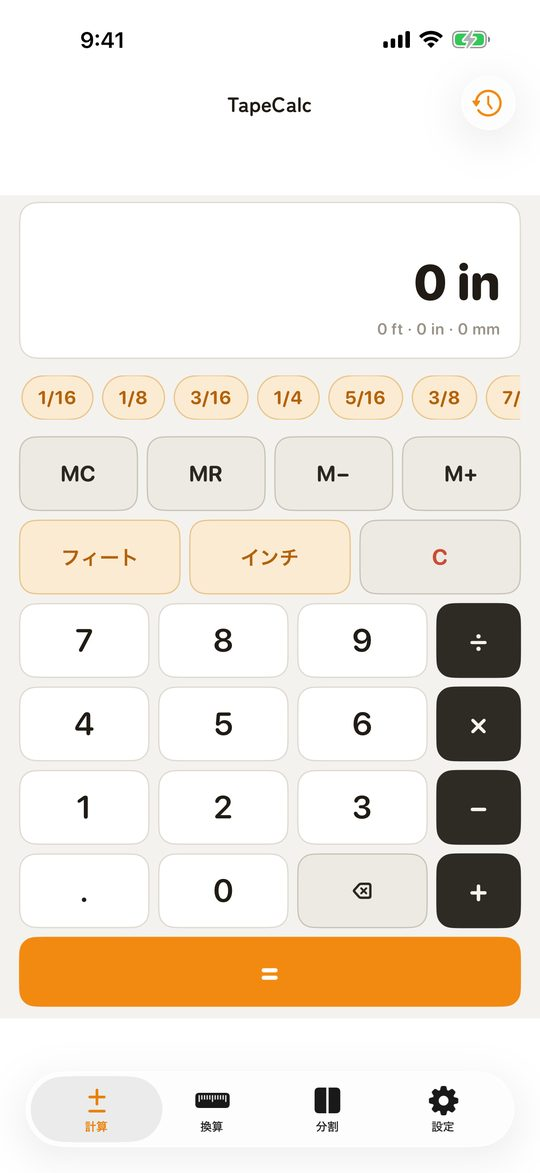
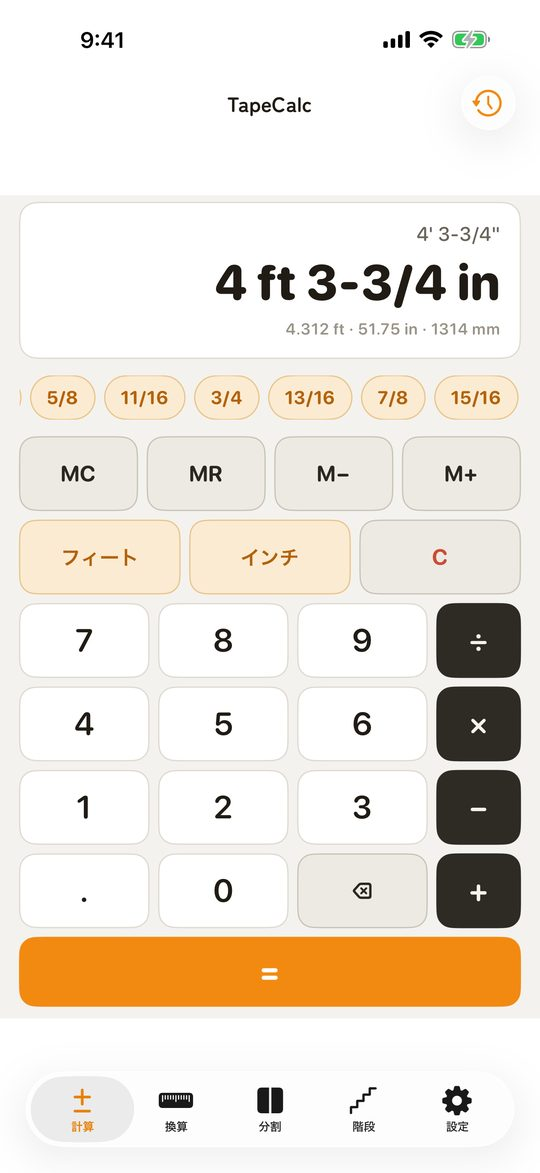
lp: TapeCalc 1.2.0 の機能追加（階段の割付）を反映

diff --git a/tapecalc/index.html b/tapecalc/index.html
@@ -4,7 +4,7 @@
 <meta charset="UTF-8">
 <meta name="viewport" content="width=device-width, initial-scale=1.0">
 <title>TapeCalc: インチ・フィート分数電卓｜iPhoneアプリ</title>
-<meta name="description" content="フィート・インチ・分数のまま四則演算。小数やミリへの換算も同時に表示し、どんな長さも等分割できます。2x4 材や輸入家具、インチのメジャーを使う DIY に。サブスクなし・オフラインで動きます。">
+<meta name="description" content="新機能：階段の割付。床から床までの高さを入れるだけで、均等な蹴上・水平距離・勾配・各段の高さが出ます。フィート・インチ・分数の計算、換算、等分割も。買い切り・オフライン。">
 <link rel="canonical" href="https://madeinchimpanzee.github.io/app-legal/tapecalc/">
 <link rel="icon" href="img/icon.png">
 <link rel="apple-touch-icon" href="img/icon.png">
@@ -12,13 +12,13 @@
 <script defer src="https://static.cloudflareinsights.com/beacon.min.js" data-cf-beacon='{"token": "19cc6d39518c47219628c5f1152f72c9"}'></script>
 <meta property="og:type" content="website">
 <meta property="og:title" content="TapeCalc: インチ・フィート分数電卓｜iPhoneアプリ">
-<meta property="og:description" content="フィート・インチ・分数のまま四則演算。小数やミリへの換算も同時に表示し、どんな長さも等分割できます。2x4 材や輸入家具、インチのメジャーを使う DIY に。サブスクなし・オフラインで動きます。">
+<meta property="og:description" content="新機能：階段の割付。床から床までの高さを入れるだけで、均等な蹴上・水平距離・勾配・各段の高さが出ます。フィート・インチ・分数の計算、換算、等分割も。買い切り・オフライン。">
 <meta property="og:url" content="https://madeinchimpanzee.github.io/app-legal/tapecalc/">
 <meta property="og:image" content="https://madeinchimpanzee.github.io/app-legal/tapecalc/img/og.jpg">
 <meta property="og:locale" content="ja_JP">
 <meta name="twitter:card" content="summary_large_image">
 <meta name="apple-itunes-app" content="app-id=6794600554">
-<script type="application/ld+json">{"@context": "https://schema.org", "@type": "SoftwareApplication", "name": "TapeCalc: インチ・フィート分数電卓", "operatingSystem": "iOS", "applicationCategory": "MobileApplication", "description": "フィート・インチ・分数のまま四則演算。小数やミリへの換算も同時に表示し、どんな長さも等分割できます。2x4 材や輸入家具、インチのメジャーを使う DIY に。サブスクなし・オフラインで動きます。", "image": "https://madeinchimpanzee.github.io/app-legal/tapecalc/img/icon.png", "url": "https://madeinchimpanzee.github.io/app-legal/tapecalc/", "installUrl": "https://apps.apple.com/jp/app/id6794600554?ct=lp", "offers": {"@type": "Offer", "price": "0", "priceCurrency": "JPY"}, "author": {"@type": "Organization", "name": "MadeInChimpanzee"}}</script>
+<script type="application/ld+json">{"@context": "https://schema.org", "@type": "SoftwareApplication", "name": "TapeCalc: インチ・フィート分数電卓", "operatingSystem": "iOS", "applicationCategory": "MobileApplication", "description": "新機能：階段の割付。床から床までの高さを入れるだけで、均等な蹴上・水平距離・勾配・各段の高さが出ます。フィート・インチ・分数の計算、換算、等分割も。買い切り・オフライン。", "image": "https://madeinchimpanzee.github.io/app-legal/tapecalc/img/icon.png", "url": "https://madeinchimpanzee.github.io/app-legal/tapecalc/", "installUrl": "https://apps.apple.com/jp/app/id6794600554?ct=lp", "offers": {"@type": "Offer", "price": "0", "priceCurrency": "JPY"}, "author": {"@type": "Organization", "name": "MadeInChimpanzee"}}</script>
 <script type="application/ld+json">{"@context": "https://schema.org", "@type": "FAQPage", "mainEntity": [{"@type": "Question", "name": "料金はかかりますか？", "acceptedAnswer": {"@type": "Answer", "text": "買い切り ¥800（サブスクではありません）。"}}, {"@type": "Question", "name": "対応機種は？", "acceptedAnswer": {"@type": "Answer", "text": "iPhone（App Store から入手）。"}}, {"@type": "Question", "name": "問い合わせ先は？", "acceptedAnswer": {"@type": "Answer", "text": "メール suportapps44@gmail.com までご連絡ください。"}}]}</script>
 <style>
 :root{--accent:#DA5F00;--accent-dark:#AA4A00;--accent-tint:#FAEBE0;--ink:#1F2430;--muted:#5F6673;--line:#E6E8EC;--bg:#FFFFFF}
@@ -94,7 +94,7 @@ footer .notice{font-size:11.5px;margin-top:10px}
     <img class="icon" src="img/icon.png" alt="TapeCalc のアイコン" width="96" height="96">
     <h1>TapeCalc: インチ・フィート分数電卓</h1>
     <p class="sub">ツーバイフォー・DIYの寸法計算と等分割</p>
-    <p class="lead">フィート・インチ・分数のまま四則演算。小数やミリへの換算も同時に表示し、どんな長さも等分割できます。2x4 材や輸入家具、インチのメジャーを使う DIY に。サブスクなし・オフラインで動きます。</p>
+    <p class="lead">新機能：階段の割付。床から床までの高さを入れるだけで、均等な蹴上・水平距離・勾配・各段の高さが出ます。フィート・インチ・分数の計算、換算、等分割も。買い切り・オフライン。</p>
     <a class="btn" href="https://apps.apple.com/jp/app/id6794600554?ct=lp" rel="noopener"><svg viewBox="0 0 24 24" aria-hidden="true"><path d="M16.7 12.6c0-2.6 2.1-3.8 2.2-3.9-1.2-1.8-3.1-2-3.7-2-1.6-.2-3.1.9-3.9.9-.8 0-2-.9-3.3-.9-1.7 0-3.3 1-4.2 2.5-1.8 3.1-.5 7.8 1.3 10.3.9 1.2 1.9 2.6 3.2 2.6 1.3-.1 1.8-.8 3.3-.8s2 .8 3.3.8c1.4 0 2.3-1.3 3.1-2.5 1-1.4 1.4-2.8 1.4-2.9-.1 0-2.7-1-2.7-4.1zM14.2 5c.7-.8 1.1-2 1-3.1-1 0-2.2.7-2.9 1.5-.6.7-1.2 1.9-1 3 1.1.1 2.2-.5 2.9-1.4z"/></svg>App Store からダウンロード</a>
     <p class="price">買い切り ¥800（サブスクではありません）。</p>
   </div>
@@ -117,6 +117,7 @@ footer .notice{font-size:11.5px;margin-top:10px}
 <figure class="shot"><img src="img/ss-04.jpg" alt="TapeCalc の画面 4" loading="lazy" width="540"></figure>
 <figure class="shot"><img src="img/ss-05.jpg" alt="TapeCalc の画面 5" loading="lazy" width="540"></figure>
 <figure class="shot"><img src="img/ss-06.jpg" alt="TapeCalc の画面 6" loading="lazy" width="540"></figure>
+<figure class="shot"><img src="img/ss-07.jpg" alt="TapeCalc の画面 7" loading="lazy" width="540"></figure>
   </div>
 </div></section>
 
@@ -141,6 +142,13 @@ footer .notice{font-size:11.5px;margin-top:10px}
 <li>1本ごとの長さと、0 から測る墨付け位置をそのまま表示します。</li>
 <li>ノコ刃の切り代（カーフ）も差し引けるので、木取りの合計がきちんと合います。</li>
 </ul>
+<p>階段の割付（新機能）</p>
+<ul>
+<li>総高さ（床から床まで）・蹴上の上限・踏面の奥行きを入れるだけ。</li>
+<li>段数・1段の蹴上・踏面の数・水平距離・勾配・斜辺（高さ×水平距離）を表示します。</li>
+<li>各段の高さを下の床からの寸法で一覧にするので、側桁の墨付けで端数の丸めが積み重なりません。</li>
+<li>＋で段数を増やして1段を低くしたり、「蹴上×2＋踏面」の目安も確かめられます。</li>
+</ul>
 <p>現場で使いやすく</p>
 <ul>
 <li>屋外でも読みやすい、大きくてコントラストの高い表示。</li>
@@ -164,7 +172,7 @@ footer .notice{font-size:11.5px;margin-top:10px}
     <a class="btn" href="https://apps.apple.com/jp/app/id6794600554?ct=lp" rel="noopener">App Store からダウンロード</a>
     
   </div>
-  <div class="kw"><span>2x4</span> <span>木材</span> <span>大工</span> <span>木工</span> <span>ミリ換算</span> <span>センチ</span> <span>ヤード</span> <span>メジャー</span> <span>巻尺</span> <span>コンベックス</span> <span>墨出し</span> <span>割付</span></div>
+  <div class="kw"><span>2x4</span> <span>木材</span> <span>大工</span> <span>木工</span> <span>階段</span> <span>蹴上</span> <span>踏面</span> <span>ミリ換算</span> <span>センチ</span> <span>ヤード</span> <span>メジャー</span> <span>巻尺</span></div>
 </div></section>
 
 <footer><div class="wrap">
